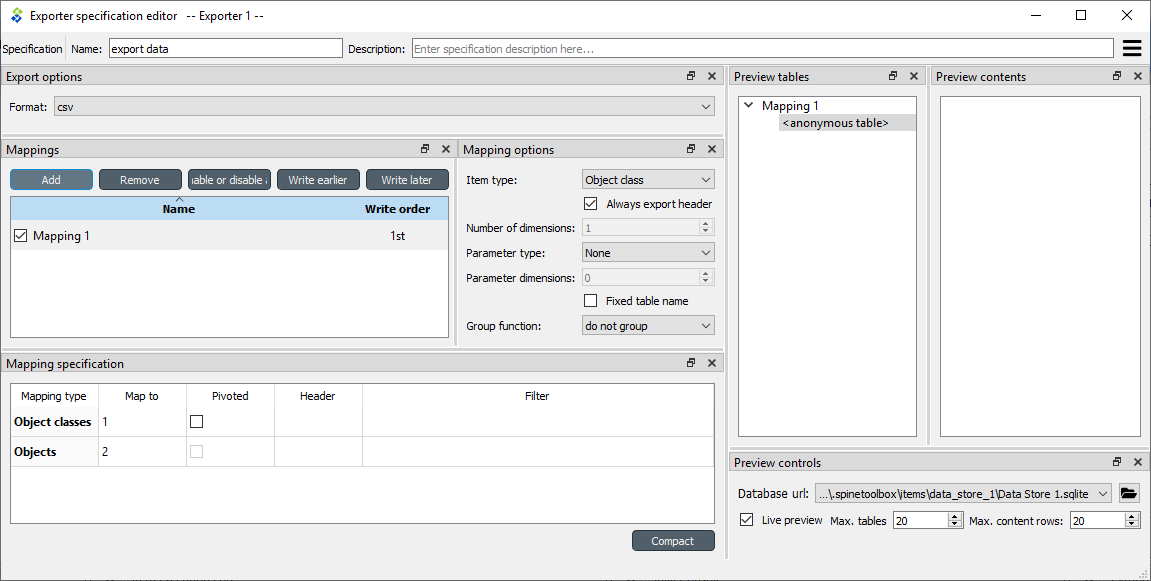
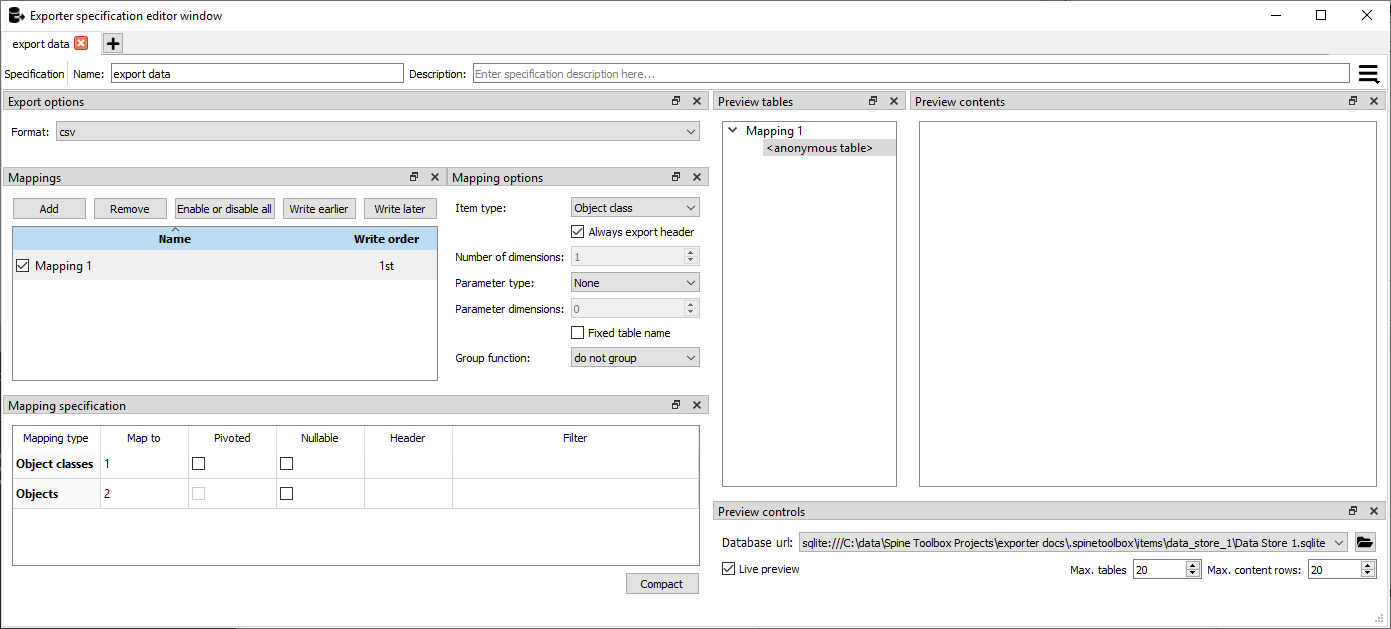
Update Exporter documentation.
Re #1363

diff --git a/spinetoolbox/config.py b/spinetoolbox/config.py
@@ -21,8 +21,8 @@ import os
 from pathlib import Path
 
 REQUIRED_SPINE_ENGINE_VERSION = "0.9.30"
-REQUIRED_SPINEDB_API_VERSION = "0.11.49"
-PREFERRED_SPINE_ITEMS_VERSION = "0.6.44"
+REQUIRED_SPINEDB_API_VERSION = "0.11.50"
+PREFERRED_SPINE_ITEMS_VERSION = "0.6.45"
 LATEST_PROJECT_VERSION = 6
 
 # For the Add/Update SpineOpt wizard

diff --git a/docs/source/data_import_export.rst b/docs/source/data_import_export.rst
@@ -209,6 +209,14 @@ One or more items on the table can be set as pivoted.
 They then act as a pivot header for the data item which is the last non-hidden item on the list.
 Once checked as pivoted, an item's position column defines a pivot header row instead of output column.
 
+By default a row ends up in the output table only when all mapping items yield some data.
+For example, when exporting object classes and objects, only classes that have objects get written to output.
+However, sometimes it is useful to export 'empty' object classes as well.
+For this purpose a mapping can be set as **nullable** in the *Nullable* column.
+Continuing the example, checking the *Nullable* checkbox for *Objects* would produce an output table with
+all object classes including ones without objects.
+The position where objects would normally be outputted are left empty for those classes.
+
 Besides the *column header* position it is possible give fixed column headers to items
 using the *Header* column in *Mapping specification* dock.
 Note that checking the *Always export header* option in the *Mapping options* dock outputs the fixed headers
